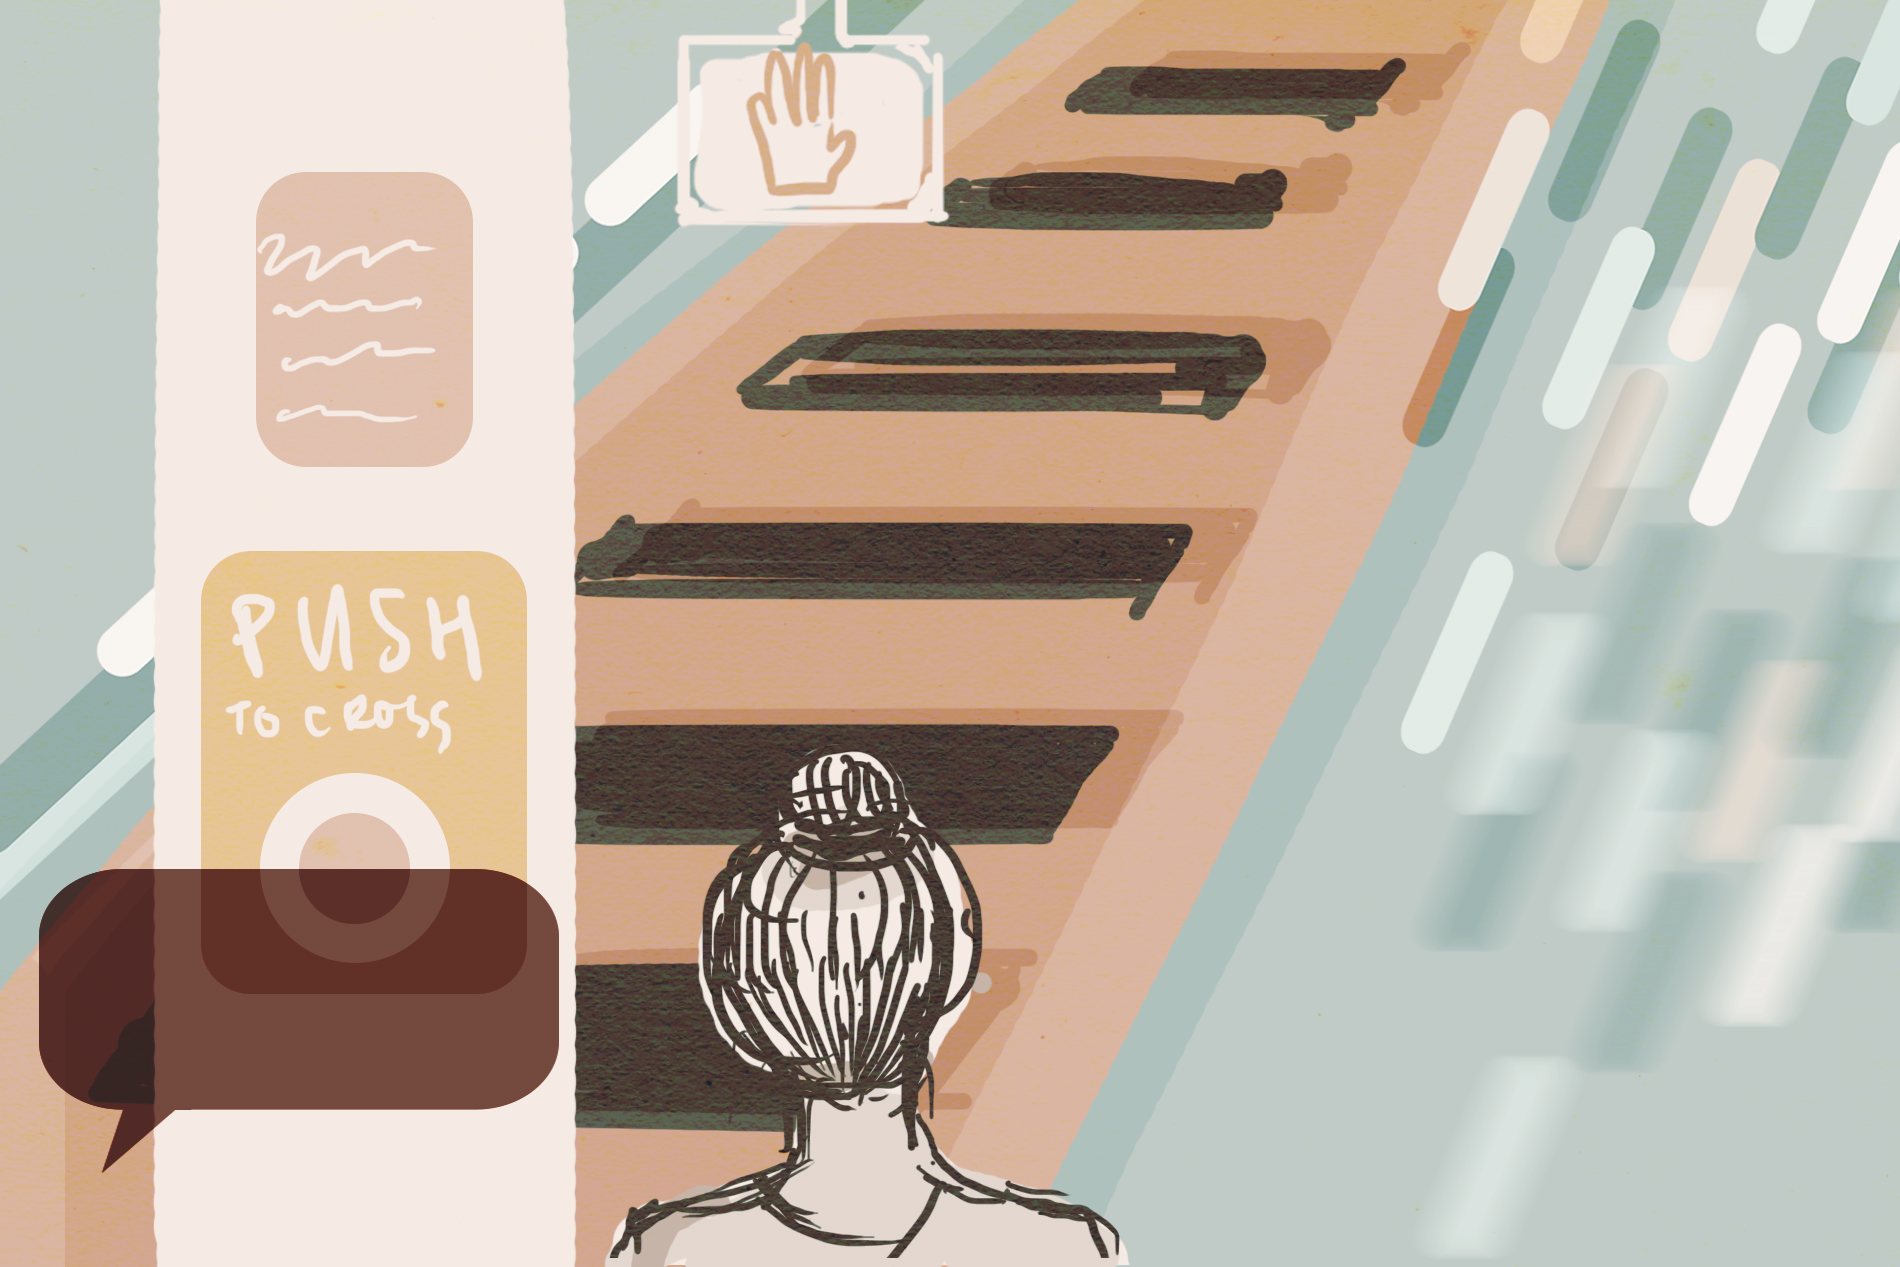
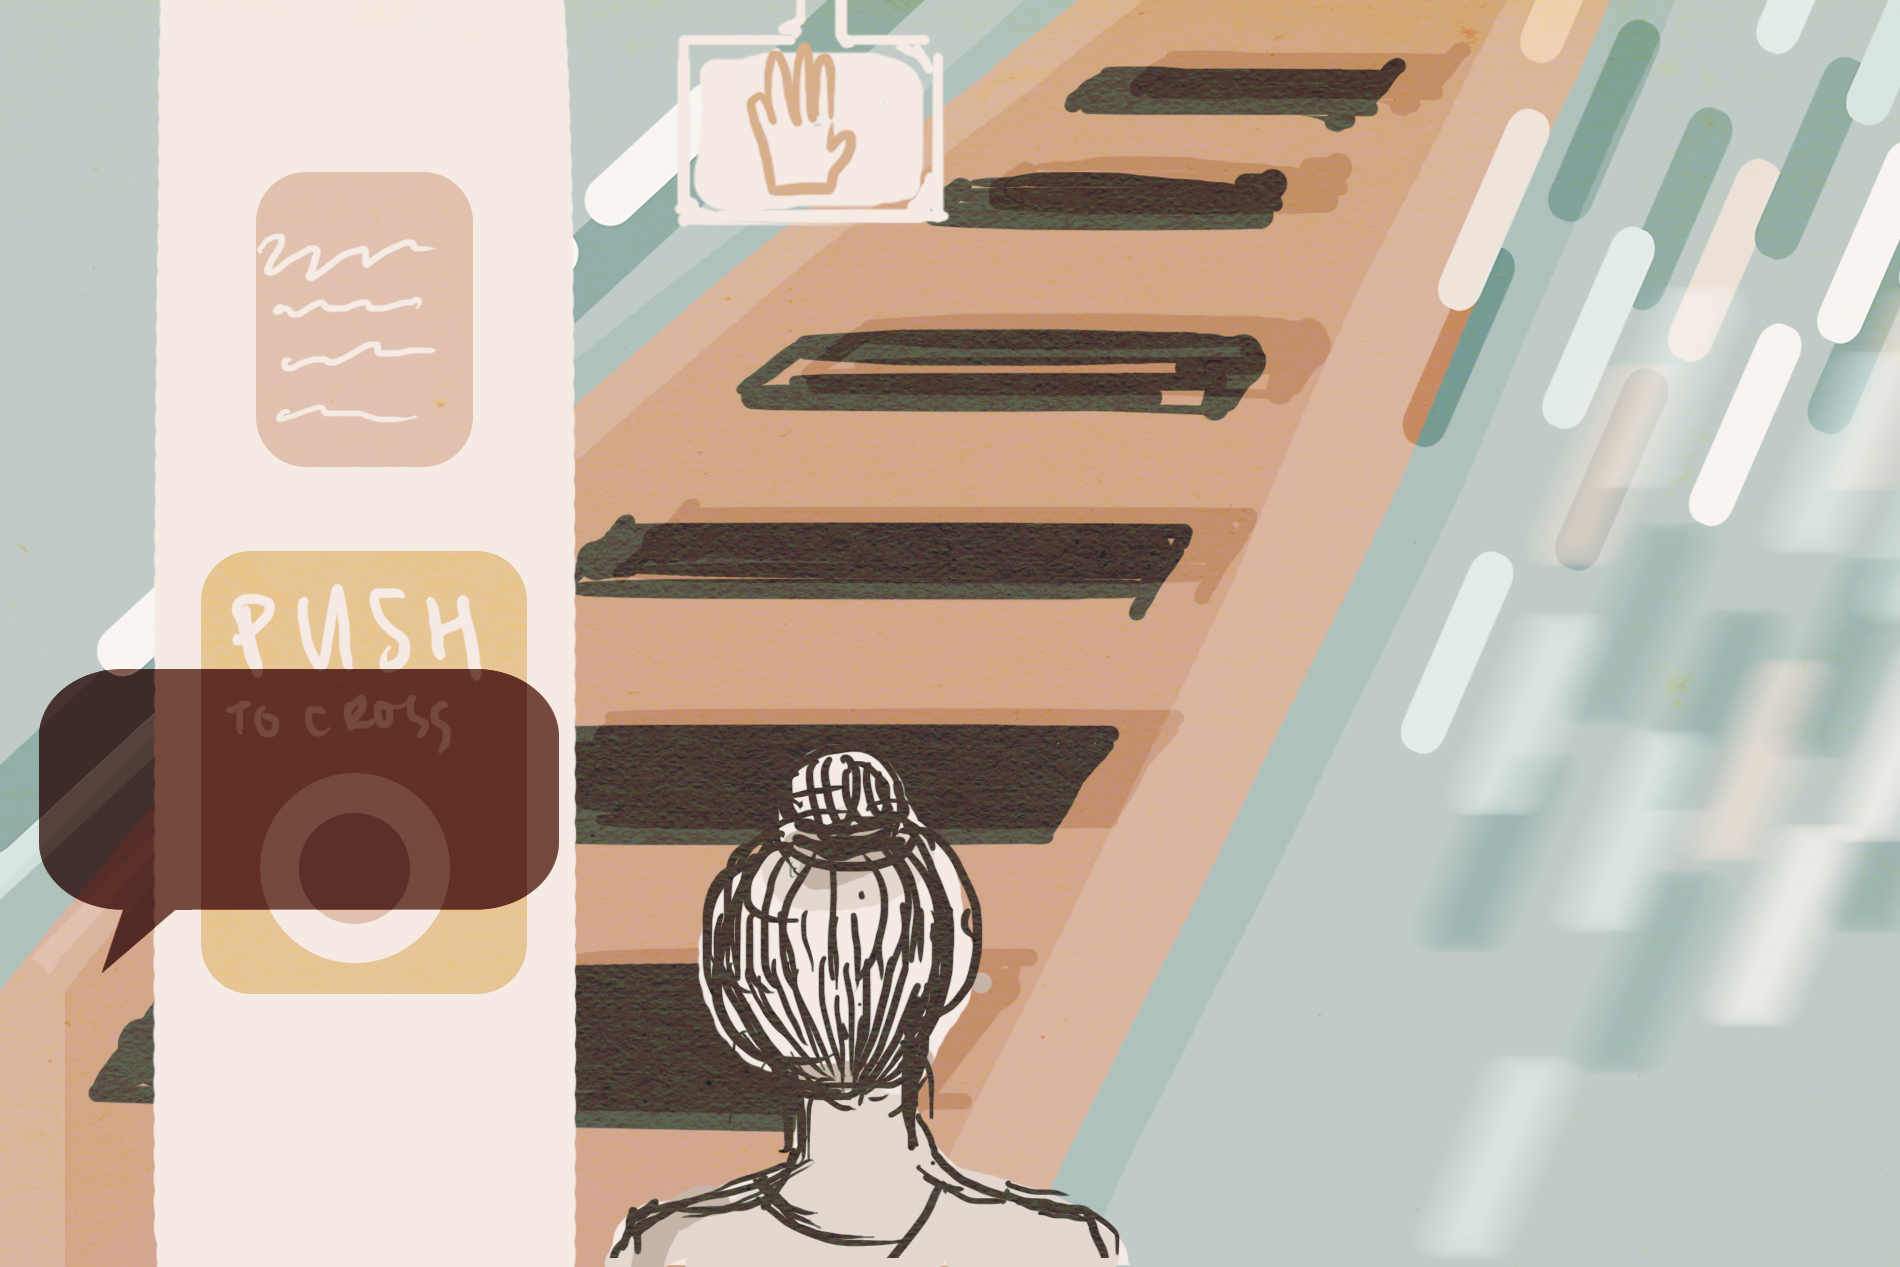
aaaaaa

Changed region(s): [[0.0, 0.5233, 0.3105, 0.9234]]

diff --git a/index.html b/index.html
@@ -147,7 +147,7 @@
             
             var scenarios = [{background : "pic3bubble.jpg", question : "As you leave, the doorman comments 'Are you sure you can carry that? It looks too heavy for a girl like you", answer1 : "You smile and nod and let him carry it", answer2 : "You say, 'No, I can handle this myself'", answer3 : "You ignore him and leave", transitionResponse : "This is an example of gender stereotyping. Gender stereotyes are pervasive in today's society. Common stereotypes about women include the assumption that they are weak and incompetent.", audio : "happyChances.mp3" }, 
 
-            {background : "pic4.jpg", question : "You're walking to work now, and a guy on the street says to you ", answer1 : "You smile", answer2 : "You say, 'This is considered harassment, and you need to leave me alone.'", answer3 : "You ignore him", transitionResponse : "Over 99% of American women have been a victim of street harrasment such as honking, whistling, kissing noises, staring, etc.", audio : "trafficJam.mp3" }, 
+            {background : "pic4bubble.jpg", question : "You're walking to work now, and a guy on the street says to you ", answer1 : "You smile", answer2 : "You say, 'This is considered harassment, and you need to leave me alone.'", answer3 : "You ignore him", transitionResponse : "Over 99% of American women have been a victim of street harrasment such as honking, whistling, kissing noises, staring, etc.", audio : "trafficJam.mp3" }, 
 
             {background : "pic5bubble.jpg", question : "You've arrived at work, and you're currently in a meeting. You keep getting interrupted by your male coworker while you're speaking", answer1 : "You allow the coworker to keep interupting", answer2 : "You say, 'Excuse me, can you let me finish my sentence?'", answer3 : "You decide to just let the coworker speak for you", transitionResponse : "Women’s perceived competency drops by 35 percent and their perceived deserved compensation by $15,088 when they are assertive or forceful.", audio : "officeSounds.mp3" },
 
@@ -210,7 +210,7 @@
                         
                         
                         audio.play();
-                        document.body.style.backgroundImage = "url('pic3.jpg')";
+                        document.body.style.backgroundImage = "url('pic3bubble.jpg')";
                         timerCheck = timerCheck+1;
                         nextScene();
 
